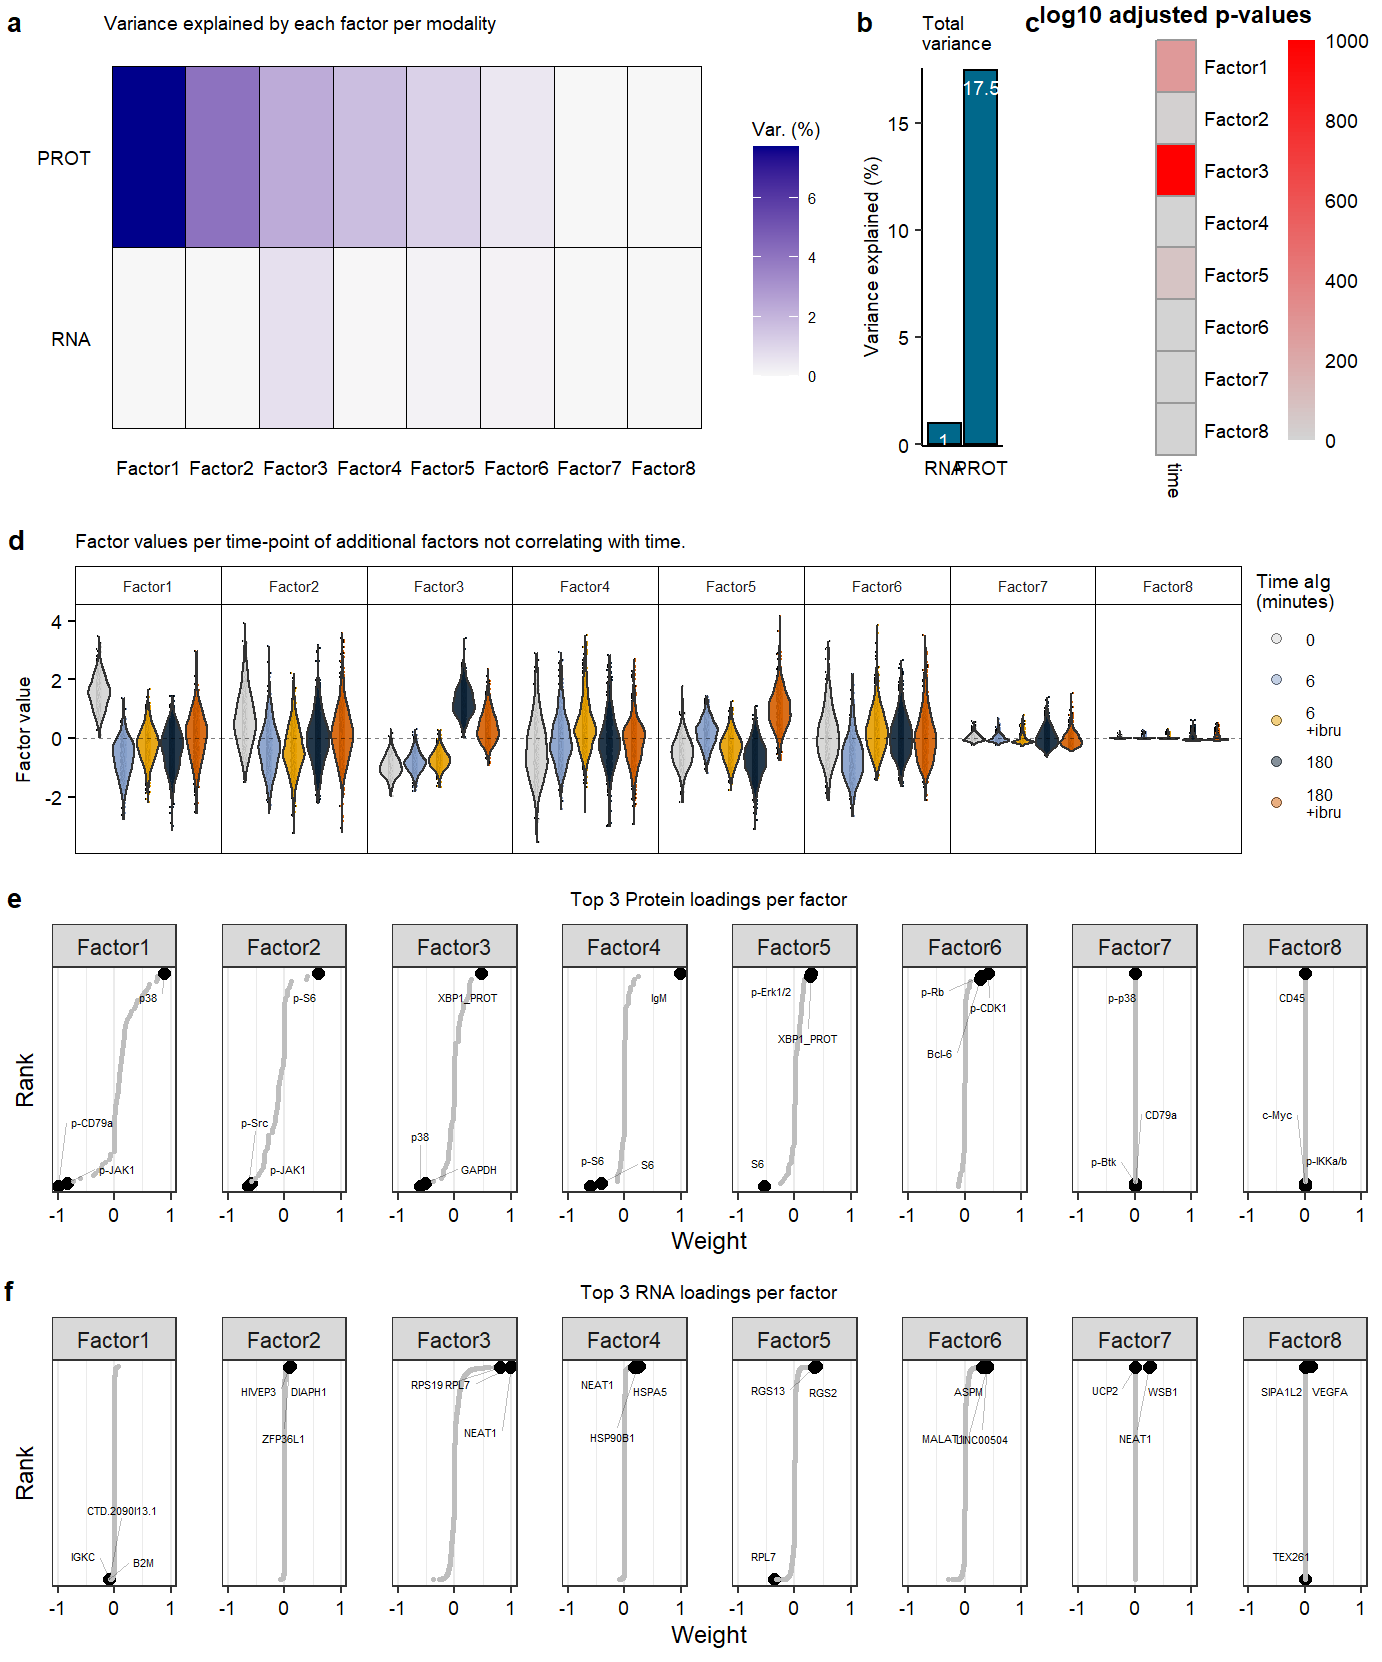
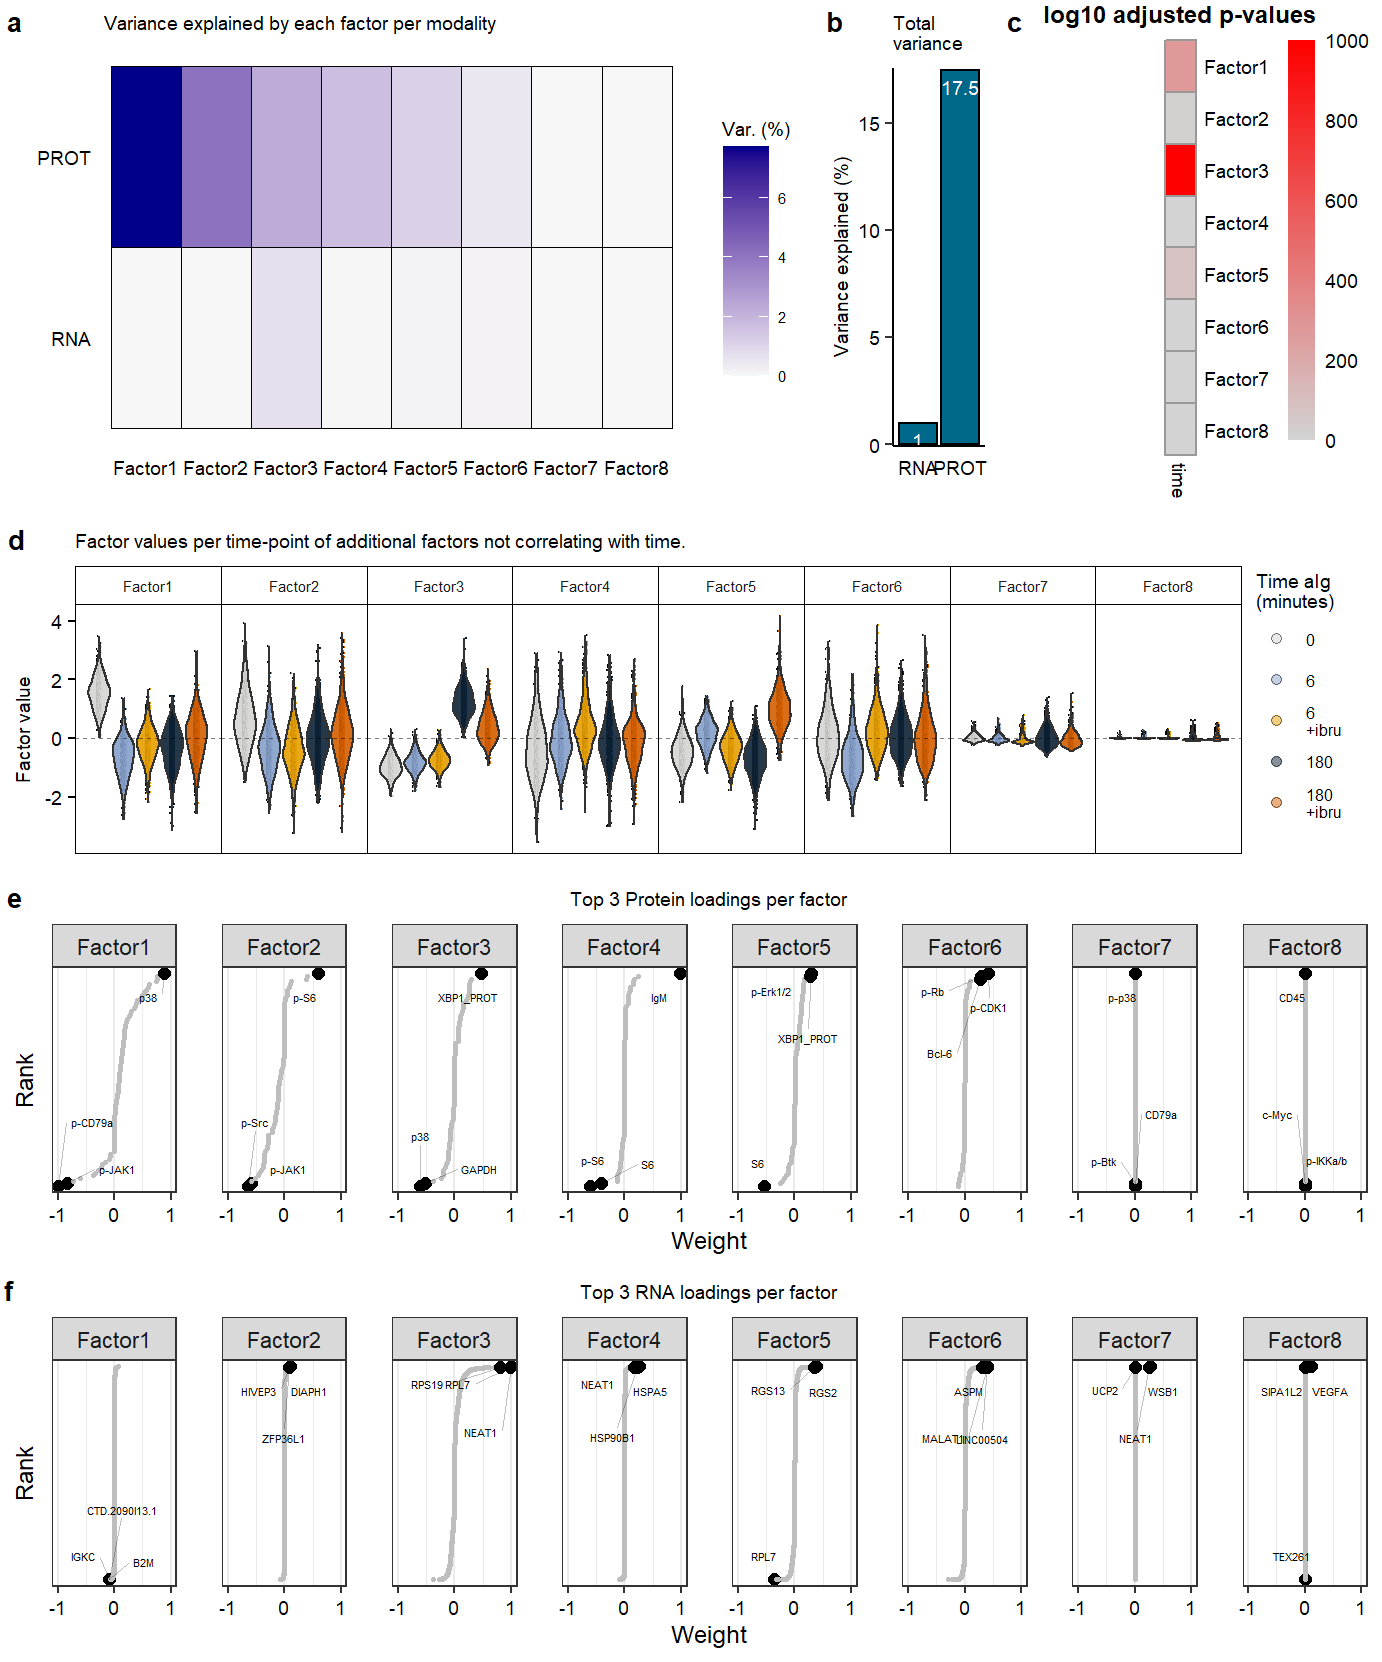
Build site.

Changed region(s): [[0.4978, 0.0, 0.9645, 0.3069], [0.0933, 0.2762, 0.4978, 0.3069], [0.1245, 0.0307, 0.1867, 0.1534]]

diff --git a/docs/MOFAibru.html b/docs/MOFAibru.html
@@ -524,16 +524,16 @@ This reproducible <a href="http://rmarkdown.rstudio.com">R Markdown</a> analysis
 <div class="panel panel-default">
 <div class="panel-heading">
 <p class="panel-title">
-<a data-toggle="collapse" data-parent="#workflowr-checks" href="#strongRepositoryversionstrongahrefhttpsgithubcomjessievbQuRIEseqanalysistree8d11c04c7067bbc0d675048fa837cdaa4823bf28targetblank8d11c04a"> <span class="glyphicon glyphicon-ok text-success" aria-hidden="true"></span> <strong>Repository version:</strong> <a href="https://github.com/jessievb/QuRIEseq_analysis/tree/8d11c04c7067bbc0d675048fa837cdaa4823bf28" target="_blank">8d11c04</a> </a>
+<a data-toggle="collapse" data-parent="#workflowr-checks" href="#strongRepositoryversionstrongahrefhttpsgithubcomjessievbQuRIEseqanalysistree4b4ea4caf95160349bad6d00a1d08128dc64846btargetblank4b4ea4ca"> <span class="glyphicon glyphicon-ok text-success" aria-hidden="true"></span> <strong>Repository version:</strong> <a href="https://github.com/jessievb/QuRIEseq_analysis/tree/4b4ea4caf95160349bad6d00a1d08128dc64846b" target="_blank">4b4ea4c</a> </a>
 </p>
 </div>
[2 lines of base64/hex data omitted]
 <div class="panel-body">
 <p>
 Great! You are using Git for version control. Tracking code development and connecting the code version to the results is critical for reproducibility.
 </p>
 <p>
-The results in this page were generated with repository version <a href="https://github.com/jessievb/QuRIEseq_analysis/tree/8d11c04c7067bbc0d675048fa837cdaa4823bf28" target="_blank">8d11c04</a>. See the <em>Past versions</em> tab to see a history of the changes made to the R Markdown and HTML files.
+The results in this page were generated with repository version <a href="https://github.com/jessievb/QuRIEseq_analysis/tree/4b4ea4caf95160349bad6d00a1d08128dc64846b" target="_blank">4b4ea4c</a>. See the <em>Past versions</em> tab to see a history of the changes made to the R Markdown and HTML files.
 </p>
 <p>
 Note that you need to be careful to ensure that all relevant files for the analysis have been committed to Git prior to generating the results (you can use <code>wflow_publish</code> or <code>wflow_git_commit</code>). workflowr only checks the R Markdown file, but you know if there are other scripts or data files that it depends on. Below is the status of the Git repository when the results were generated:
@@ -598,6 +598,40 @@ Message
 </tr>
 </thead>
 <tbody>
+<tr>
+<td>
+Rmd
+</td>
+<td>
+<a href="https://github.com/jessievb/QuRIEseq_analysis/blob/4b4ea4caf95160349bad6d00a1d08128dc64846b/analysis/MOFAibru.Rmd" target="_blank">4b4ea4c</a>
+</td>
+<td>
+Jessie van Buggenum
+</td>
+<td>
+2020-11-24
+</td>
+<td>
+update minor changes to documentation and suppl fig
+</td>
+</tr>
+<tr>
+<td>
+html
+</td>
+<td>
+<a href="https://rawcdn.githack.com/jessievb/QuRIEseq_analysis/2412f7d329a75cba7e313023aaa224e9376d1511/docs/MOFAibru.html" target="_blank">2412f7d</a>
+</td>
+<td>
+Jessie van Buggenum
+</td>
+<td>
+2020-11-24
+</td>
+<td>
+Build site.
+</td>
+</tr>
 <tr>
 <td>
 Rmd
@@ -1152,8 +1186,7 @@ plot.correlation.covariates &lt;- correlate_factors_with_covariates(mofa,
         axis.text.y=element_text(size = 5),
         legend.position=&quot;none&quot;,
         plot.title = element_text(hjust = 0.5))</code></pre>
-<pre><code>Coordinate system already present. Adding new coordinate system, which will replace the existing one.</code></pre>
-<pre class="r"><code>Fig.3.suppl.mofa.row1 &lt;- plot_grid(plot.variance.perfactor.all, plot.variance.total,NULL, plot.heatmap.pval.covariates, labels = c(panellabels[1:3]), label_size = 10, ncol = 4, rel_widths = c(1.35, 0.27,0.2,0.38))
+<pre class="r"><code>Fig.3.suppl.mofa.row1 &lt;- plot_grid(plot.variance.perfactor.all, plot.variance.total,NULL, plot.heatmap.pval.covariates, labels = c(panellabels[1:3]), label_size = 10, ncol = 4, rel_widths = c(1.35, 0.3,0.25,0.38))
 
 Fig.3.suppl.mofa.row2 &lt;- plot_grid(plot.violin.factorall,legend.umap, labels = panellabels[4], label_size = 10, ncol = 2, rel_widths = c(1,0.1))
 
